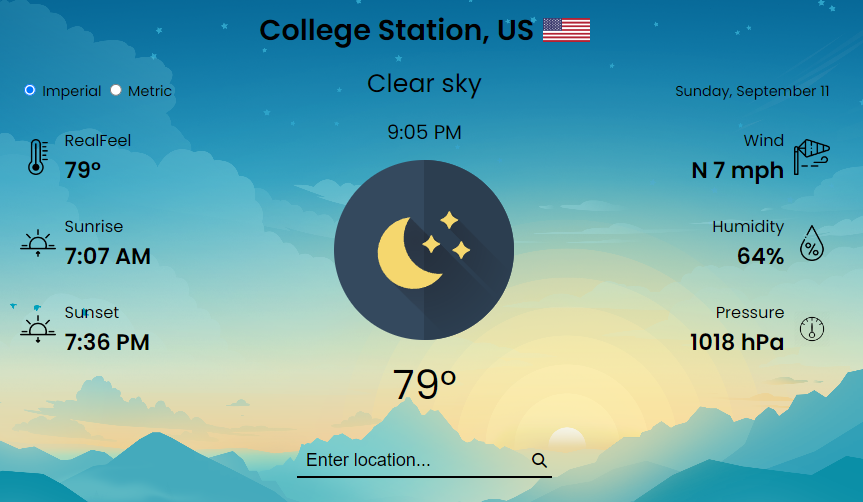
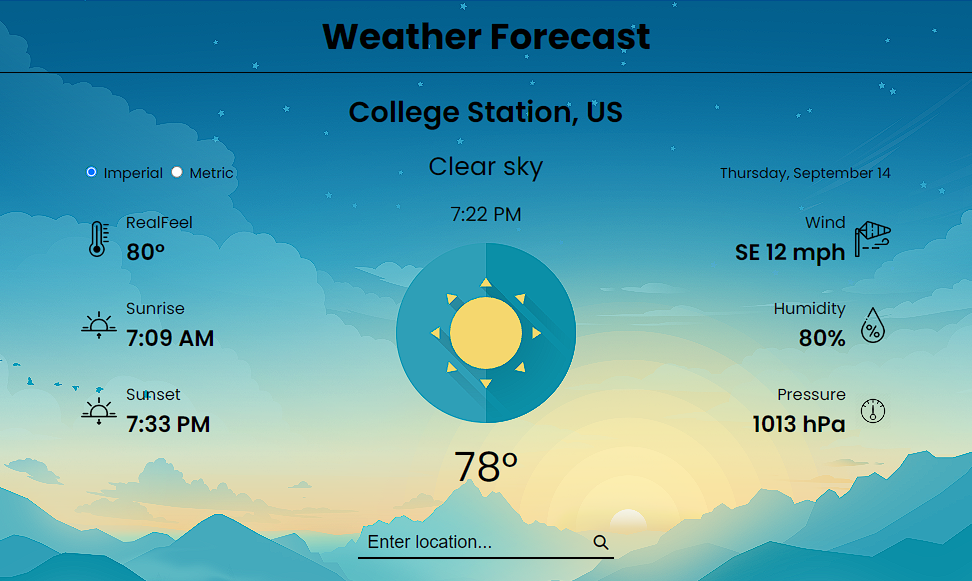
add original projects from previous portfolio

diff --git a/src/projectsList.js b/src/projectsList.js
@@ -1,6 +1,33 @@
 import weather1 from './images/weather_forecast/1.png';
 import weather2 from './images/weather_forecast/2.png';
-// import hangman1 from './images/hangman/1.png'
+import weather3 from './images/weather_forecast/3.png';
+import weather4 from './images/weather_forecast/4.png';
+import hangman1 from './images/hangman/1.png';
+import hangman2 from './images/hangman/2.png';
+import hangman3 from './images/hangman/3.png';
+import hangman4 from './images/hangman/4.png';
+import hangman5 from './images/hangman/5.png';
+import hangman6 from './images/hangman/6.png';
+import hangman7 from './images/hangman/7.png';
+import ontrack1 from './images/ontrack/1.png';
+import ontrack2 from './images/ontrack/2.png';
+import ontrack3 from './images/ontrack/3.png';
+import ontrack4 from './images/ontrack/4.png';
+import quizcabulary1 from './images/quizcabulary/1.png';
+import quizcabulary2 from './images/quizcabulary/2.png';
+import quizcabulary3 from './images/quizcabulary/3.png';
+import quizcabulary4 from './images/quizcabulary/4.png';
+import quizcabulary5 from './images/quizcabulary/5.png';
+import quizcabulary6 from './images/quizcabulary/6.png';
+import sketch1 from './images/etch_a_sketch/1.png';
+import sketch2 from './images/etch_a_sketch/2.png';
+import sketch3 from './images/etch_a_sketch/3.png';
+import sketch4 from './images/etch_a_sketch/4.png';
+import sketch5 from './images/etch_a_sketch/5.png';
+import battleship1 from './images/battleship/1.png';
+import battleship2 from './images/battleship/2.png';
+import battleship3 from './images/battleship/3.png';
+import battleship4 from './images/battleship/4.png';
 
 export const projects = [
     {
@@ -8,8 +35,10 @@ export const projects = [
         codeLink: 'https://github.com/ZThygesen/weather-forecast',
         demoLink: 'https://zthygesen.github.io/weather-forecast/',
         images: [
-            { src: weather1, alt: 'Home Page of Weather Forecast App' },
-            { src: weather2, alt: 'Future Forecast Feature' }
+            { src: weather1, alt: 'Weather forecast for College Station' },
+            { src: weather2, alt: 'Weather forecast for London' },
+            { src: weather3, alt: 'Weather forecast with future forecast for London' },
+            { src: weather4, alt: 'Closeup of future forecast for London' }
         ],
         descriptions: [
             'Technologies: JavaScript, HTML, CSS',
@@ -19,41 +48,87 @@ export const projects = [
     },
     {
         title: 'Hangman',
-        codeLink: 'https://github.com/ZThygesen/weather-forecast',
-        // demoLink: 'https://zthygesen.github.io/weather-forecast/',
+        codeLink: 'https://github.com/ZThygesen/hangman',
+        demoLink: 'https://zthygesen.github.io/hangman/',
         images: [
-            { src: weather1, alt: 'Home Page of Weather Forecast App' },
-            { src: weather2, alt: 'Future Forecast Feature' }
+            { src: hangman1, alt: 'Beginning of Hangman game' },
+            { src: hangman2, alt: 'Guessing letter incorrectly example' },
+            { src: hangman3, alt: 'Guessing letter incorrectly example' },
+            { src: hangman4, alt: 'Guessing letter correctly example' },
+            { src: hangman5, alt: 'Guessing letter correctly example' },
+            { src: hangman6, alt: 'Winning the game' },
+            { src: hangman7, alt: 'Losing the game' },
         ],
         descriptions: [
-            'Technologies: JavaScript, HTML, CSS',
-            'This weather forecasting app will give you basic weather data for any city, state, country; you name it! See the current temperature, condition, real feel, sunrise, sunset, humidity, pressure, wind speed and direction, and the next five days of weather for your selected location.'
+            'Technologies: Python, JavaScript, HTML, CSS',
+            'This web application is a recreation of a classic game: Hangman! Guess the letters to a secret word, but don\'t guess too many wrong! Or else... well... you know...',
+            'The chalky hang stand and the progressional phases are custom designed. The word base was webscraped from a random word generator website using the Beautiful Soup library in Python. The scores are stored locally in the browser to keep track of your performance over time!'
         ]
     },
     {
-        title: 'Hangman',
-        codeLink: 'https://github.com/ZThygesen/weather-forecast',
-        demoLink: 'https://zthygesen.github.io/weather-forecast/',
+        title: 'OnTrack',
+        codeLink: 'https://github.com/ZThygesen/todo-list',
+        demoLink: 'https://zthygesen.github.io/todo-list/',
         images: [
-            { src: weather1, alt: 'Home Page of Weather Forecast App' },
-            { src: weather2, alt: 'Future Forecast Feature' }
+            { src: ontrack1, alt: 'Showing all tasks in OnTrack app' },
+            { src: ontrack2, alt: 'Showing more details of specific task' },
+            { src: ontrack3, alt: 'Editing task' },
+            { src: ontrack4, alt: 'Showing tasks filtered by project' }
         ],
         descriptions: [
             'Technologies: JavaScript, HTML, CSS',
-            'This weather forecasting app will give you basic weather data for any city, state, country; you name it! See the current temperature, condition, real feel, sunrise, sunset, humidity, pressure, wind speed and direction, and the next five days of weather for your selected location.'
+            'OnTrack is a web application to help you manage your tasks. You can create different projects and assign tasks to those projects. A task has a name, description, project (if desired), priority and an optional due date. Sort the tasks you are viewing by the day, week or project.',
+            'This project makes use of object-oriented programming and local storage in JavaScript to store and organize task and project data.'
         ]
     },
     {
-        title: 'Hangman',
-        codeLink: 'https://github.com/ZThygesen/weather-forecast',
-        demoLink: 'https://zthygesen.github.io/weather-forecast/',
+        title: 'QuizCabulary',
+        codeLink: 'https://github.com/ZThygesen/quizcabulary',
         images: [
-            { src: weather1, alt: 'Home Page of Weather Forecast App' },
-            { src: weather2, alt: 'Future Forecast Feature' }
+            { src: quizcabulary1, alt: 'Game menu for QuizCabulary' },
+            { src: quizcabulary2, alt: 'Example of question in game' },
+            { src: quizcabulary3, alt: 'Answering question incorrectly' },
+            { src: quizcabulary4, alt: 'Answering question correctly' },
+            { src: quizcabulary5, alt: 'Info for completed game: how many questions answered correctly' },
+            { src: quizcabulary6, alt: 'How to play screen' }
+        ],
+        descriptions: [
+            'Technologies: Python',
+            'QuizCabulary is a fun learning tool to improve and test your vocabulary! It features 3 game modes. Two of them are matching as many definition-word or word-definition pairs correctly in a minute. The other is a time trial: match 10 pairs correctly as quick as you can.',
+            'This vocabulary game was created with a team of three engineers during a coding hackathon: TAMUhack 2022. It makes use of the Beautiful Soup Python library to webscrape for all the words and their definitions. The game itself was created with Pygame.'
+        ]
+    },
+    {
+        title: 'Etch-A-Sketch',
+        codeLink: 'https://github.com/ZThygesen/etch-a-sketch',
+        demoLink: 'https://zthygesen.github.io/etch-a-sketch/',
+        images: [
+            { src: sketch1, alt: 'Etch-A-Sketch interface with blank canvas' },
+            { src: sketch2, alt: 'Canvas with smiley face' },
+            { src: sketch3, alt: 'Smiley face with background color changed' },
+            { src: sketch4, alt: 'Demonstration of increasing the number of squares in the grid' },
+            { src: sketch5, alt: 'Toggling off the gridlines' }
         ],
         descriptions: [
             'Technologies: JavaScript, HTML, CSS',
-            'This weather forecasting app will give you basic weather data for any city, state, country; you name it! See the current temperature, condition, real feel, sunrise, sunset, humidity, pressure, wind speed and direction, and the next five days of weather for your selected location.'
+            'This web application is a modernized, digital version of Etch-A-Sketch. Choose from several different tools to create whatever beautiful (or terrifying) art your heart desires! There is a pen with any color of your choice, a rainbow, shade and eraser option, and you can even change the background color. You can also toggle the gridlines, reset the board and change the size of the grid.',
+            'This project makes heavy use of JavaScript to dynamically change the size of the grid, color the squares and toggle between different modes.'
+        ]
+    },
+    {
+        title: 'Battleship',
+        codeLink: 'https://github.com/ZThygesen/battleship',
+        demoLink: 'https://zthygesen.github.io/battleship/',
+        images: [
+            { src: battleship1, alt: 'Deploying battleships' },
+            { src: battleship2, alt: 'Start of game: displays both players\' boards (You vs Computer)' },
+            { src: battleship3, alt: 'Early-game view of boards' },
+            { src: battleship4, alt: 'Later-game view of boards' }
+        ],
+        descriptions: [
+            'Technologies: JavaScript, Jest, HTML, CSS',
+            'The game that everyone knows and loves: Battleship! Deploy your fleet of ships and take turns with the computer attacking each others\' fleets. Sink all of the computer\'s ships before it sinks yours to win.',
+            'This project was created in an effort to practice test-driven development. Unit tests were created throughout the development process using the JavaScrpt testing library Jest. This resulted in far fewer bugs that were much easier to fix and a reduction in code complexity.'
         ]
     }
 ];

diff --git a/src/components/Project.js b/src/components/Project.js
@@ -55,7 +55,7 @@ export default function Project({ project }) {
                 ))}
             </Carousel>
             <div className="option-links">
-                {project.codeLink ?
+                {project.demoLink ?
                     <a href={project.demoLink} target="_blank" rel="noreferrer">
                         <p>Live Demo</p>
                         <img src={liveDemo} alt="Computer Screen" />
@@ -63,7 +63,7 @@ export default function Project({ project }) {
                     :
                     <></>
                 }
-                {project.demoLink ?
+                {project.codeLink ?
                     <a href={project.codeLink} target="_blank" rel="noreferrer">
                         <p>View Code</p>
                         <img src={github} alt="GitHub Logo" />

diff --git a/src/styles/Home.js b/src/styles/Home.js
@@ -23,8 +23,8 @@ export const Home = styled.div`
     .welcome-section {
         display: flex;
         flex-direction: column;
-        gap: 20px;
-        background-color: #fff;
+        gap: 8px;
+        background-color: #FFF;
         border-radius: 20px;
         padding: 20px;
         box-shadow: 5px 5px var(--secondary);

diff --git a/src/styles/Project.js b/src/styles/Project.js
@@ -82,7 +82,7 @@ export const Project = styled.div`
             &:after {
                 content: '';
                 position: absolute;
-                width: calc(100% - 30px);
+                width: calc(100% - 29px);
                 transform: scaleX(0);
                 height: 2px;
                 bottom: -1px;
